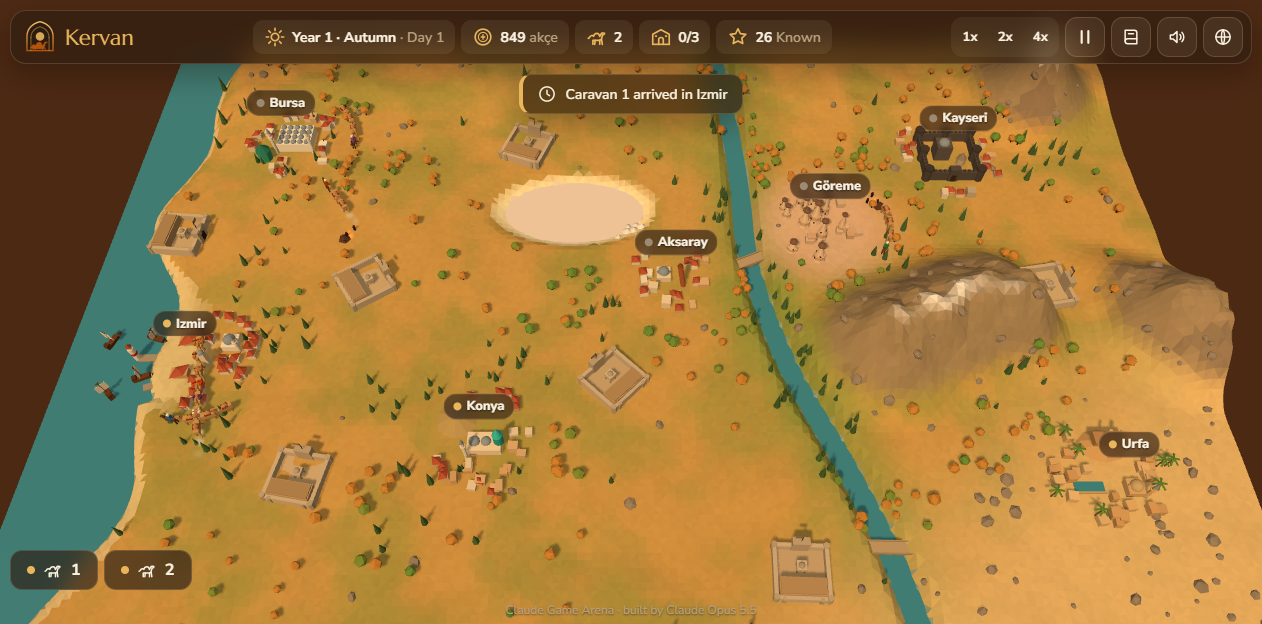
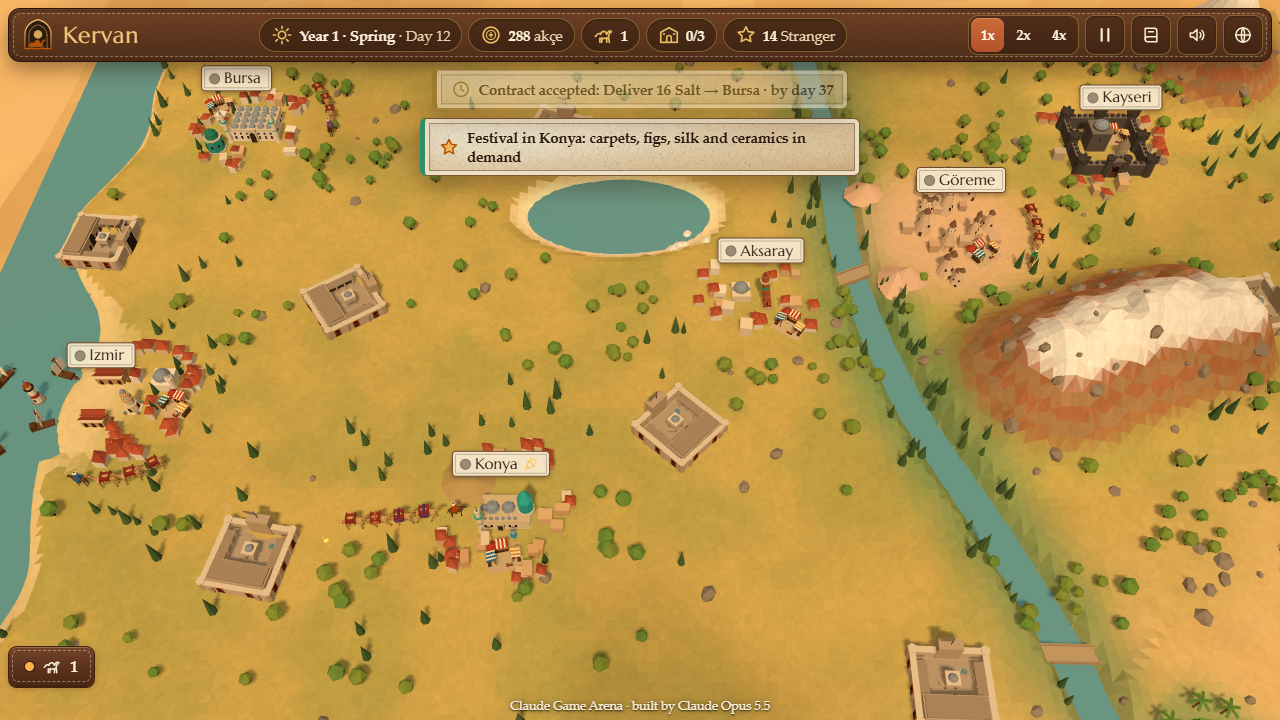
docs: redesign screenshots, before/after strip and README section
Claude-Session: https://claude.ai/code/session_014vMYwwQ3htV8WjCni8q7av

diff --git a/README.md b/README.md
@@ -32,7 +32,7 @@
   plague and festivals shift demand, and cities offer delivery contracts that raise your reputation.
 - **Balanced by a bot.** The `?auto` bot plays with the same actions as a player and won 12 of 12 seeded runs between
   day 158 and day 211; a careless bot that buys camels and random goods went bankrupt in the first season every time.
-- **Light on a laptop GPU.** About 60 fps (the vsync cap) on Intel UHD 620 at 1280x720 with 20-29 draw calls, and a
+- **Light on a laptop GPU.** About 60 fps (the vsync cap) on Intel UHD 620 at 1280x720 with 25-29 draw calls, and a
   `?low` tier for phones ([measurements](docs/assets.md)).
 - **One file, made in code.** One `index.html` with Three.js r170 from a CDN; models, music and sound are procedural,
   with an optional CC0 asset pass loaded on top.
@@ -108,7 +108,7 @@ The live state is on `window.kervan` (`kervan.state`, `kervan.sim`, `kervan.info
     <td width="33%"><img src="docs/market.png" alt="Caravan panel and the Konya market"><br><sub>Caravan panel and the Konya market</sub></td>
   </tr>
   <tr>
-    <td><img src="docs/caravan.png" alt="Izmir harbour with ships"><br><sub>Izmir harbour</sub></td>
+    <td><img src="docs/caravan.png" alt="A camel caravan leaving Kurşunlu Han on the coast"><br><sub>A caravan at Kurşunlu Han</sub></td>
     <td><img src="docs/assets-after-city-goreme.png" alt="Fairy chimneys of Göreme"><br><sub>Fairy chimneys of Göreme</sub></td>
     <td><img src="docs/assets-after-city-bursa.png" alt="Bursa with the Ulu Cami"><br><sub>Bursa and its Ulu Cami</sub></td>
   </tr>
@@ -136,6 +136,42 @@ The live state is on `window.kervan` (`kervan.state`, `kervan.sim`, `kervan.info
 <p align="center"><img src="docs/phone.png" width="300" alt="Kervan on a phone"><br><sub>On a phone</sub></p>
 
 </details>
+
+## Redesign (2026-11)
+
+**Art direction:** a stylized Silk Road adventure in warm dune sand (#E0B97A), terracotta (#B4532A), oasis green
+(#2F8F6B), night indigo (#1B1F3B) and lantern light (#FFB347); the UI is a travel journal of parchment panels and
+stitched leather buttons.
+
+<p align="center"><img src="docs/redesign-before-after.png" width="100%" alt="The same map at the same hour before and after the redesign"><br><sub>Same seed, same hour: before (left) and after (right)</sub></p>
+
+- **Palette and light:** a warm golden-hour sun with a sand-coloured hemisphere fill, an indigo night with lanterns in
+  the cities and campfires at night camps, and warmer fog for depth.
+- **Environment:** the board now sits on a sea of wind-shaped dunes with vertex-coloured ridges, palm oases with water,
+  scattered rocks and drifting sand motes; the dunes hidden under the board are collapsed so they cost almost nothing.
+- **Characters and objects:** camels with a walking gait and saddle cloths, riders, caravanserais with arched portals.
+- **UI skin:** parchment panels, leather buttons with stitched edges, a serif display face and line icons on every
+  screen (title, top bar, caravan, market, caravanserai, ledger, pause, settings, end); a compact top bar and bottom
+  sheet on phones in portrait and short landscape.
+- **Kept:** the simulation, economy table, controls, bot, saves (`arena.kervan.*`), flags and both languages.
+- **Measured** (headless Chrome, 1280x720, seed 3): 60 fps before and after (the vsync cap); 25 -> 29 draw calls and
+  110k -> 132k triangles; `?low` 27 calls and 92k triangles. The `?auto` bot still wins (day 212 for seed 3, day 142
+  for seed 5) with 0 JS errors, with and without `?noassets`.
+
+<table>
+  <tr>
+    <td width="50%"><img src="docs/redesign-desert.png" alt="Urfa among the oases"><br><sub>Urfa and its oases</sub></td>
+    <td width="50%"><img src="docs/redesign-night.png" alt="A caravan camped at night"><br><sub>Night camp</sub></td>
+  </tr>
+  <tr>
+    <td><img src="docs/redesign-pause.png" alt="Pause menu"><br><sub>Pause</sub></td>
+    <td><img src="docs/redesign-settings.png" alt="Settings"><br><sub>Settings</sub></td>
+  </tr>
+  <tr>
+    <td><img src="docs/redesign-end.png" alt="Victory screen"><br><sub>Victory</sub></td>
+    <td><img src="docs/phone.png" alt="Kervan on a phone" width="60%"><br><sub>Phone, portrait</sub></td>
+  </tr>
+</table>
 
 ## Balance
 
